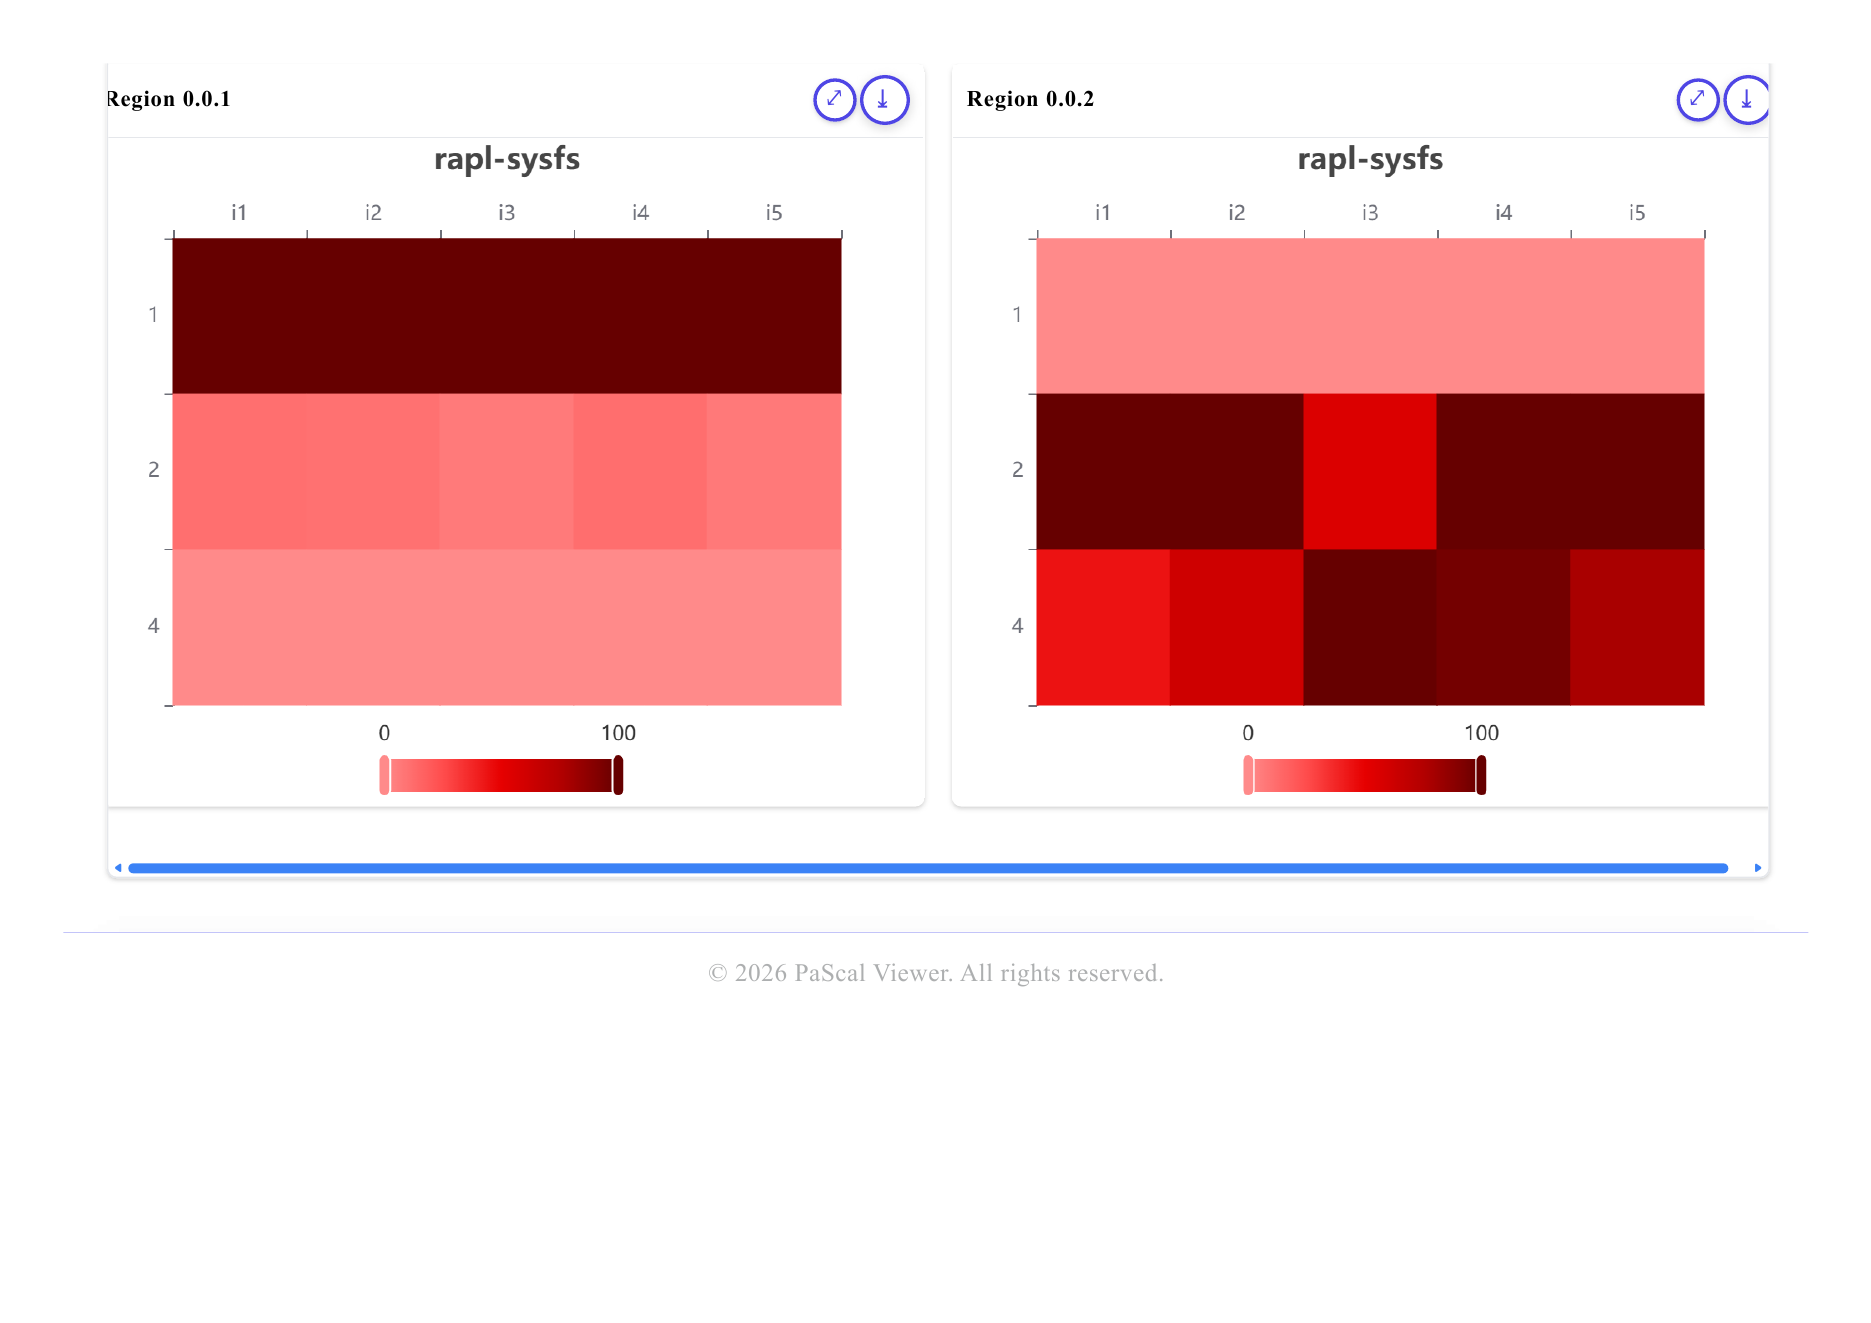
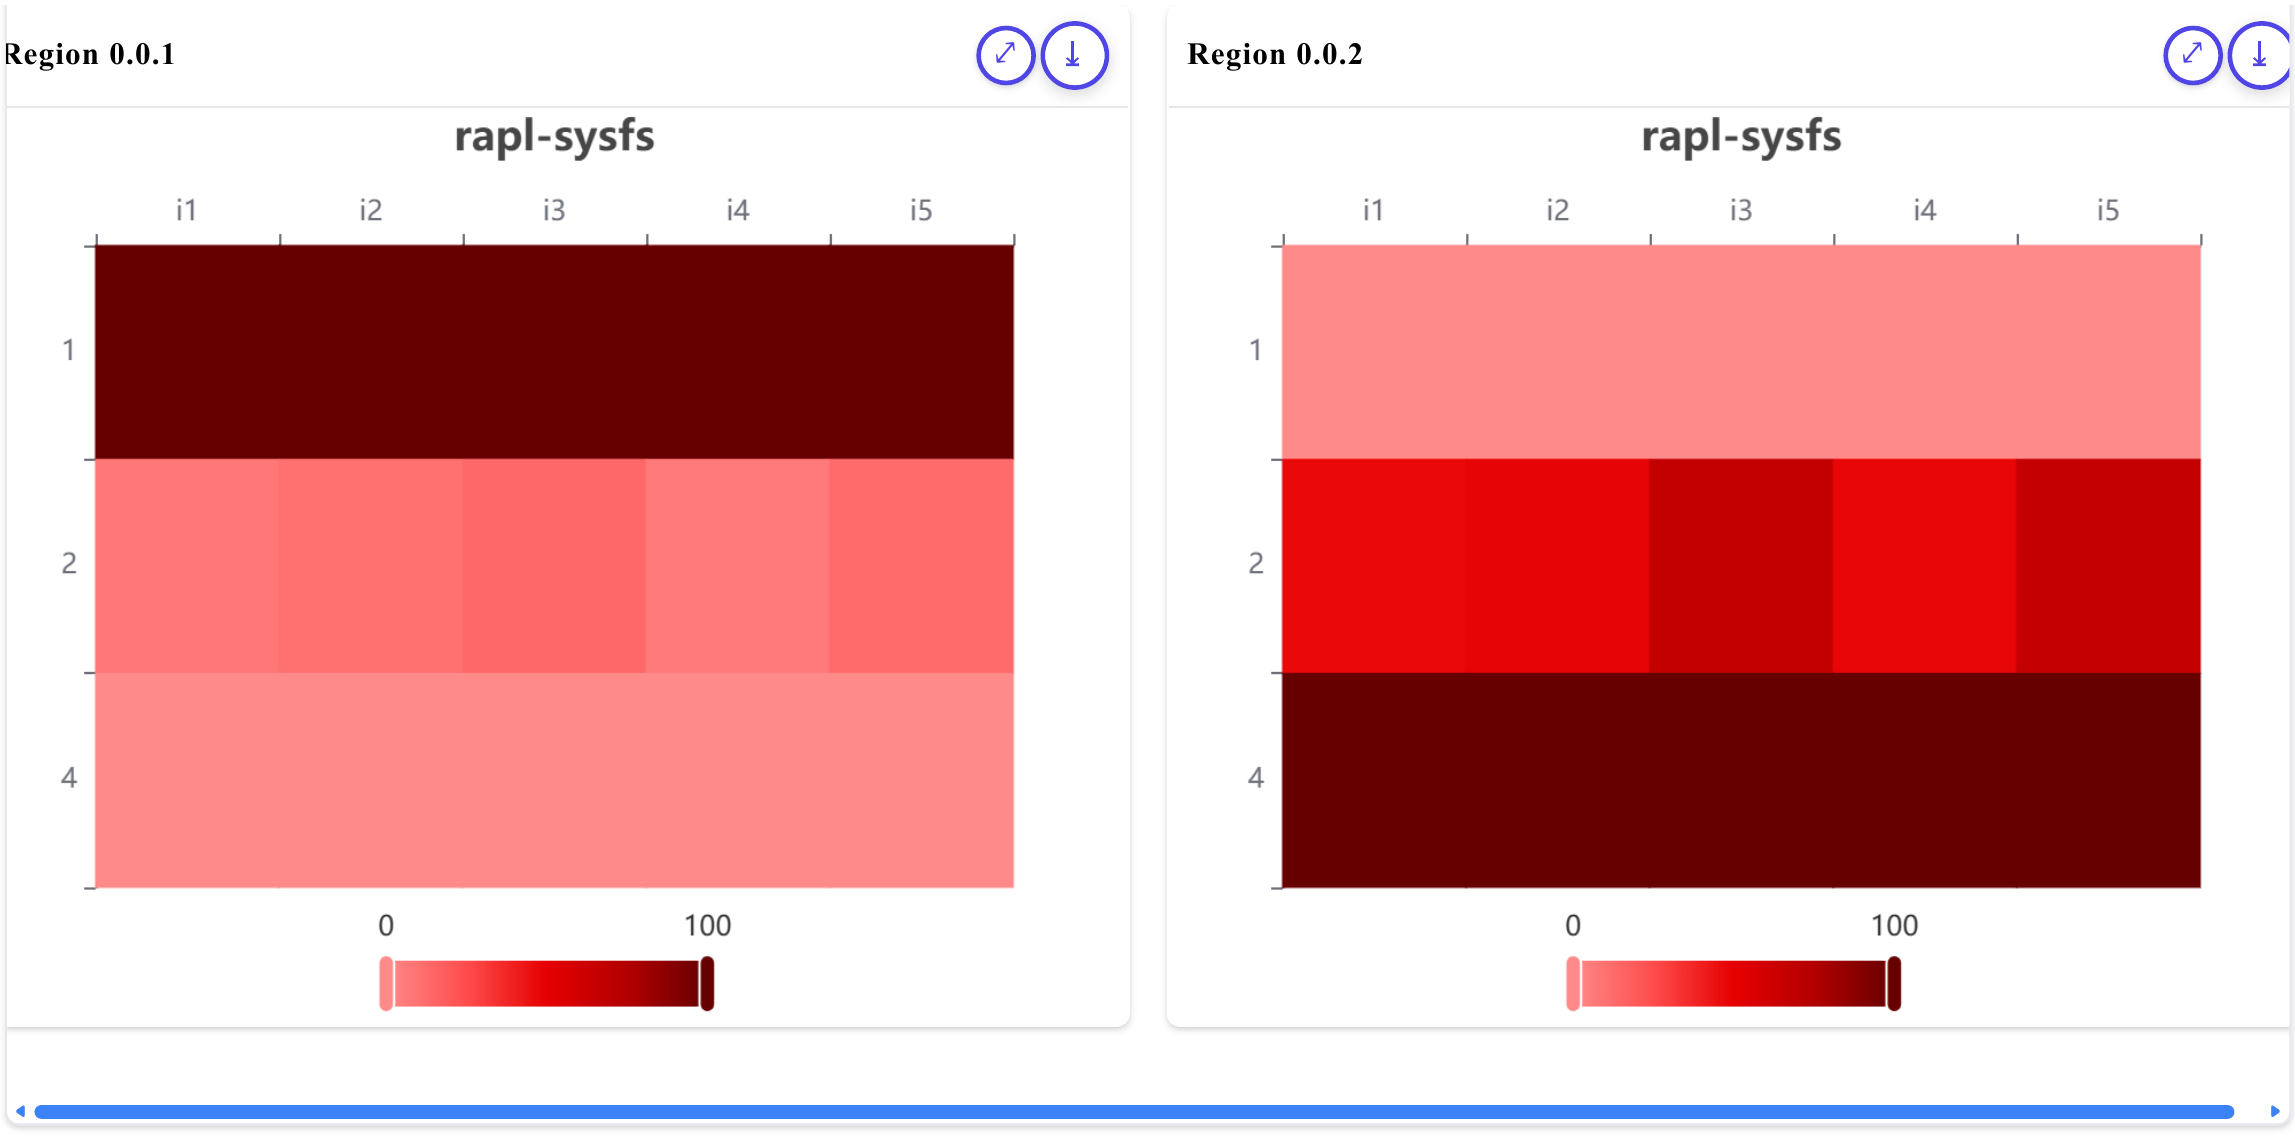
docs: synchronize corrected minimization evidence

diff --git a/scripts/compare_solver_profile_matrices.py b/scripts/compare_solver_profile_matrices.py
@@ -1,5 +1,9 @@
 #!/usr/bin/env python3
-"""Build a deterministic comparison from accepted Gurobi and SCIP matrices."""
+"""Compare fixed-budget regional telemetry from accepted solver matrices.
+
+The report describes duration, energy, and EDP under a matched experimental
+contract. It does not rank terminal solution quality or time to optimality.
+"""
 
 from __future__ import annotations
 
@@ -146,6 +150,11 @@ def _positive_number(value: Any, label: str) -> float:
 
 
 def _measurement_rows(campaign: dict[str, Any]) -> list[dict[str, Any]]:
+    """Aggregate only validated region-0.2 telemetry for the comparison.
+
+    Objective, bound, gap, status, and node-count metadata remain provenance;
+    they never select attempts or enter the duration, energy, and EDP ratios.
+    """
     solver = campaign["solver"]
     grouped: dict[tuple[str, str, int], list[tuple[float, float, float]]] = (
         defaultdict(list)

diff --git a/scripts/summarize_solver_profile_matrix.py b/scripts/summarize_solver_profile_matrix.py
@@ -52,6 +52,12 @@ def _metadata_summary(
     solver: str,
     metadata_paths: list[Path],
 ) -> dict[str, Any]:
+    """Summarize native solver metadata without using it as an energy gate.
+
+    Solver APIs may expose finite sentinel values when a bound or gap is not
+    available. These fields are retained for audit and must be interpreted with
+    the native status; they do not determine telemetry validity or acceptance.
+    """
     statuses = Counter()
     objectives = []
     bounds = []

diff --git a/scripts/check_sbc_pdf.py b/scripts/check_sbc_pdf.py
@@ -29,7 +29,10 @@ EXPECTED_MARKERS = (
     "Experimental Method",
     "Results",
     "Threats to Validity",
-    "0.296794",
+    "explicit minimization",
+    "300-second",
+    "0.317460",
+    "10.538866",
     "Evidence dataset",
     "Acknowledgements",
     "References",

diff --git a/docs/research-mvp.md b/docs/research-mvp.md
@@ -1,4 +1,4 @@
-# Dual-solver research MVP validation
+# Corrected dual-solver research MVP validation
 
 ## Scope
 
@@ -12,6 +12,8 @@ demonstration in a relevant HPC environment, not a universal solver benchmark.
 - Workloads: `CFL_hard_instance_{5,10,15,20,25}.lp.gz`.
 - Profiles: `default`, `presolve-off`, and `warm-start`.
 - Repetitions: six attempts per configuration.
+- Objective direction: explicit minimization, verified after model import.
+- Solver time budget: 300 seconds per attempt.
 - Comparison resource: one solver core.
 - Telemetry: PaScal Analyzer `2025-07-08`, global RAPL energy, and sampled RAPL
   power.
@@ -22,55 +24,72 @@ demonstration in a relevant HPC environment, not a universal solver benchmark.
 - Preferred repeatability: maximum configuration-level region-0 CV at most 10%.
 - Replication gate: at least five valid runs per configuration.
 
-Invalid RAPL attempts were reported and excluded. No value was corrected,
-replaced, or imputed.
+Invalid RAPL attempts were reported and excluded. No measured value was
+corrected or imputed. The LP files declare maximization, but the intended capacitated
+facility-location experiment is minimization; the corrected runners therefore
+record the source direction, force minimization, and verify the effective
+direction before optimization.
 
 ## Accepted campaigns
 
-### Gurobi
+Both corrected campaigns used source commit
+`fbbf7d7178e022ff8cf759d8fd7568359b583cf8`, the NPAD `intel-128`
+partition, requested exclusive allocation, and recorded `OverSubscribe=NO`.
 
-- Slurm job: `2084725`.
-- Source commit: `915bd7974edf2a03a279d24a0e3a69dc5f54082f`.
-- Partition and policy: `intel-128`, requested `exclusive`, observed
-  `OverSubscribe=NO`.
-- Resource treatments: 1, 2, and 4 solver cores.
-- Default: 88/90 valid attempts; median error 0.201043%; maximum CV 1.450886%.
-- Presolve off: 89/90 valid; median error 0.290858%; maximum CV 1.877484%.
-- Warm start: 90/90 valid; median error 0.268701%; maximum CV 1.124702%.
+| Solver | Profile | Valid / logical attempts | Median error (%) | Maximum CV (%) |
+| --- | --- | ---: | ---: | ---: |
+| Gurobi | Default | 84 / 90 | 0.309447 | 1.031979 |
+| Gurobi | Presolve off | 84 / 90 | 0.317460 | 0.779982 |
+| Gurobi | Warm start | 83 / 90 | 0.315904 | 0.812490 |
+| SCIP | Default | 29 / 30 | 0.246062 | 3.236270 |
+| SCIP | Presolve off | 28 / 30 | 0.288293 | 10.538866 |
+| SCIP | Warm start | 28 / 30 | 0.240095 | 0.784039 |
 
-All 15 Gurobi configurations passed.
+All profiles retained the required five valid observations per configuration
+and passed the mandatory 5% median-error gate. SCIP `presolve-off` exceeded the
+preferred, non-binding 10% CV target; the matrix remains accepted, but this
+deviation must accompany interpretation of that profile.
 
-### SCIP
-
-- Slurm job: `2084503`.
-- Source commit: `b03b6f298db70834192fb499f8fd248e91de22e9`.
-- Partition and policy: `intel-128`, requested `exclusive`, observed
-  `OverSubscribe=NO`.
-- Resource treatment: one solver core.
-- Default: 29/30 valid attempts; median error 0.296794%; maximum CV 1.654691%.
-- Presolve off: 30/30 valid; median error 0.286874%; maximum CV 0.671986%.
-- Warm start: 28/30 valid; median error 0.290148%; maximum CV 0.746351%.
-
-All five configurations in each SCIP profile passed.
+The SCIP default/instance-15 cell initially retained four valid attempts.
+Two independent attempts were then collected in a separate output root under
+the same contract. Both passed telemetry validation. A deterministic compositor
+replaced the two invalid run positions in chronological order, without using
+solver outcome, energy, duration, objective, bound, gap, or node count. The
+original matrix, retry files, and checksummed composition manifest remain
+preserved. Consequently, 362 physical attempts produced a 360-row logical
+matrix; the composed evidence still reports the remaining invalid observations.
 
 ## Controlled paired comparison
 
-Dataset fingerprints, profile contracts, source cleanliness, allocation policy,
-and hardware partition matched. The comparator accepted 15 paired one-core
-configurations and classified the result as `controlled-comparison`.
+The corrected comparator accepted both matrices, verified effective
+minimization and the 300-second budget, and classified the result as
+`controlled-comparison`. All comparison gates passed: the one-core
+configurations are complete; dataset fingerprints, profile contracts, objective
+direction, time budget, partition, and exclusive-allocation evidence match; the
+source worktrees are clean; and both input matrices are accepted.
 
-The values below are medians of the per-instance SCIP/Gurobi ratios. Values
-greater than one indicate a larger SCIP measurement.
-
-| Profile | Duration ratio | Energy ratio | EDP ratio |
+| Profile | Median duration ratio | Median energy ratio | Median EDP ratio |
 | --- | ---: | ---: | ---: |
-| Default | 26.314715 | 26.794993 | 707.638806 |
-| Presolve off | 43.115530 | 43.876481 | 1893.048508 |
-| Warm start | 9.775579 | 10.186012 | 99.737732 |
+| Default | 1.069927 | 0.995437 | 1.064858 |
+| Presolve off | 1.011974 | 0.958652 | 0.970521 |
+| Warm start | 1.072602 | 1.000150 | 1.072563 |
 
-These results apply only to the declared CFL instances, solver versions,
-profiles, one-core comparison, and NPAD execution conditions. In particular,
-they must not be presented as solver-wide superiority claims.
+Ratios are SCIP divided by Gurobi and are medians over the five paired
+instance-level ratios for each profile. The accepted report is
+`dual_solver_comparison.json`, SHA-256
[1 lines of base64/hex data omitted]
+Its companion `solver_measurements.csv` and
+`paired_one_core_comparisons.csv` files have SHA-256 values
[1 lines of base64/hex data omitted]
+and
[1 lines of base64/hex data omitted]
+respectively.
+
+The final values apply only to the declared CFL instances, solver versions,
+profiles, one-core comparison, and NPAD execution conditions. Time-limited runs
+describe fixed-budget progress and energy, not time to proven optimality. Native
+sentinel values such as SCIP `-1e20` and `1e20` are unavailable bound/gap
+indicators and must not be interpreted as scientific measurements.
 
 ## Evidence handling
 

diff --git a/README.md b/README.md
@@ -69,6 +69,8 @@ profile, and solver-core treatment. The validated hard-instance campaigns use:
 | Solvers | Gurobi and SCIP |
 | Workloads | MILPBench CFL hard instances 5, 10, 15, 20, and 25 |
 | Profiles | `default`, `presolve-off`, and `warm-start` |
+| Objective | Explicit minimization, verified after each native model import |
+| Solver budget | 300 s per attempt for both solvers |
 | Attempts | Six per configuration, with at least five valid attempts required |
 | Core treatments | Gurobi: 1, 2, and 4; SCIP comparison: 1 |
 | Comparison region | `0.2`, solve execution |
@@ -81,6 +83,21 @@ excluded without correction or imputation. Accuracy is evaluated by comparing
 sampled whole-program energy with the independent global RAPL value. Regional
 energy is then derived only for runs whose sampled series passes the validity
 checks.
+
+The supplied MILPBench LP files declare a maximization objective, whereas the
+capacitated facility-location experiment studied here is a minimization
+problem. Corrected campaigns therefore set the native objective direction to
+minimize after loading the file and record both the source and effective
+directions. Results produced before this contract was enforced are not valid
+evidence for solver-performance claims.
+
+If independent RAPL acquisition invalidates more than one of the six attempts
+in a configuration, only that configuration may be repeated. Retry attempts
+must use the same source commit, solver contract, workload, partition, and
+allocation policy. Composition is permitted only by a predeclared chronological
+rule based on telemetry validity; solver outcome, energy, duration, objective,
+bound, gap, and node count must not influence selection. The original evidence,
+retry evidence, and a checksummed composition manifest remain immutable.
 
 The study uses medians and coefficients of variation as descriptive statistics.
 It does not currently report confidence intervals, hypothesis tests, or
@@ -190,12 +207,12 @@ After a successful job, consolidate each solver matrix:
 
 ```bash
 python scripts/summarize_solver_profile_matrix.py \
-    resultados_finais/gurobi_hard_profiles \
+    resultados_finais/gurobi_hard_profiles_minimize_300s \
     --require-runs 5 \
     --require-configurations 15
 
 python scripts/summarize_solver_profile_matrix.py \
-    resultados_finais/scip_hard_profiles \
+    resultados_finais/scip_hard_profiles_minimize_300s \
     --require-runs 5 \
     --require-configurations 5
 ```
@@ -212,9 +229,9 @@ Build the comparison only from accepted matrices:
 
 ```bash
 python scripts/compare_solver_profile_matrices.py \
-    --gurobi-root resultados_finais/gurobi_hard_profiles \
-    --scip-root resultados_finais/scip_hard_profiles \
-    --output-dir resultados_finais/dual_solver_research_mvp
+    --gurobi-root resultados_finais/gurobi_hard_profiles_minimize_300s \
+    --scip-root resultados_finais/scip_hard_profiles_minimize_300s \
+    --output-dir resultados_finais/dual_solver_corrected_minimize_300s
 ```
 
 The comparison is eligible for a controlled performance claim only when both
@@ -229,7 +246,12 @@ campaigns:
 Otherwise, the tool still writes auditable outputs but labels them
 `exploratory-only`, rejects the final gate, and returns status 3.
 
-The accepted campaign and its bounded descriptive results are documented in
+The accepted corrected comparison contains 15 paired one-core configurations.
+Median SCIP-to-Gurobi duration ratios range from 1.011974 to 1.072602, energy
+ratios from 0.958652 to 1.000150, and EDP ratios from 0.970521 to 1.072563 across
+the three profiles. These are fixed-budget descriptive results, not solver-wide
+rankings or time-to-optimality measurements. The complete gate, ratios, evidence
+hashes, and bounded interpretation are documented in
 [Dual-solver research MVP validation](docs/research-mvp.md).
 
 ## Evidence and data availability
@@ -239,10 +261,11 @@ small, deterministic evidence package after an accepted controlled comparison:
 
 ```bash
 python scripts/export_research_evidence.py \
-    --gurobi-root resultados_finais/gurobi_hard_profiles \
-    --scip-root resultados_finais/scip_hard_profiles \
-    --comparison-root resultados_finais/dual_solver_research_mvp \
-    --output-dir resultados_finais/dual_solver_research_mvp/portable_evidence
+    --gurobi-root resultados_finais/gurobi_hard_profiles_minimize_300s \
+    --scip-root resultados_finais/scip_hard_profiles_minimize_300s \
+    --comparison-root resultados_finais/dual_solver_corrected_minimize_300s \
+    --output-dir \
+        resultados_finais/dual_solver_corrected_minimize_300s/portable_evidence
 ```
 
 The exporter verifies upstream hashes and gates, strips absolute paths, records
@@ -264,7 +287,9 @@ versioned here:
   PaScal versions.
 - **Internal validity:** exclusive allocation, partition matching, provenance,
   and workload hashes reduce confounding, but campaigns executed as separate
-  jobs may still experience node-level and temporal variation.
+  jobs may still experience node-level and temporal variation. Selective
+  telemetry retries add a further temporal block and must be disclosed with
+  their deterministic composition rule.
 - **Construct validity:** RAPL estimates CPU/package energy rather than complete
   facility or system energy. No carbon-emissions claim is made. EDP refers to
   the declared measurement region and telemetry domain.
